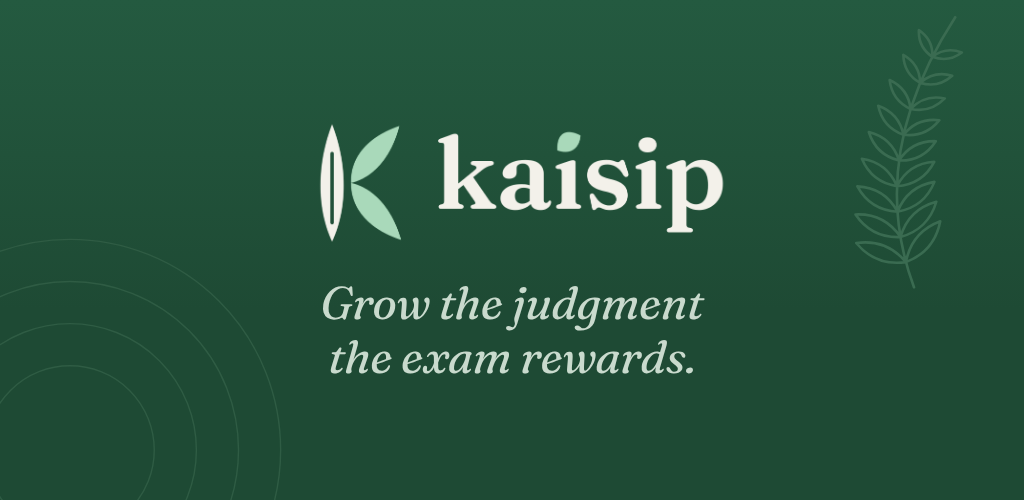
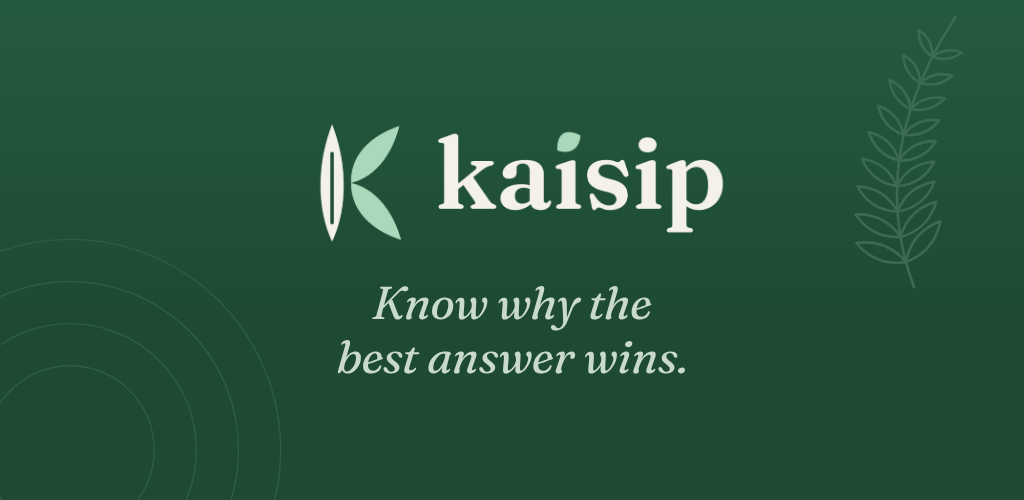
Brand line: "Know why the best answer wins." after the trademark clearance check (#219)
The owner's clearance check (TRADEMARK_CLEARANCE.md) found the new line and
the name KaiSip clear in the Philippines, WIPO, TMview and the US. "Deep
roots" is crowded in education marks, and "Grow Deep Roots" is a live US
Class 41 mark, so the pillar and the store heading that used it are renamed.

- Store listing: new brand line in both descriptions, the guardrails, the
  graphics note and the A/B table; new Play short description (78/80);
  heading GROW DEEP ROOTS is now REMEMBER WHAT YOU LEARN.
- Feature graphic: new line, re-rendered PNG. Video brief: new tagline.
- Web About pillar and phone About pillar: "Know why the best answer wins".
  Web v12.50.1 and mobile 1.54.4 with What's New entries.
- "Think like an IS auditor." stays as the CISA welcome headline (owner
  decision, 22 Oct 2026).

Claude-Session: https://claude.ai/code/session_01KmT18sgcYyGBBTgMHyrfb8

Changed region(s): [[0.3125, 0.57, 0.6875, 0.66], [0.3125, 0.69, 0.6875, 0.75]]

diff --git a/index.html b/index.html
@@ -7259,7 +7259,7 @@ html { scroll-padding-bottom: calc(104px + var(--consent-h, 0px)); }
     <h2 class="vision-title" id="aboutVisionT">Think like an IS auditor.</h2>
     <p class="vision-line">CISA exam prep, taught the way the exam thinks.</p>
   </section>
-  <p class="about-version">KaiSip web <span class="bank-pill" id="versionPill">v12.50</span></p>
+  <p class="about-version">KaiSip web <span class="bank-pill" id="versionPill">v12.50.1</span></p>
   <section class="vision-body" aria-label="What KaiSip stands for">
     <!-- The provenance line (owner, 22 Oct 2026): the same words in the hero, the disclaimer and the FAQ. -->
     <p class="vision-desc">Original questions and notes, written with AI assistance and checked against ISACA’s published exam outline and standards.</p>
@@ -7270,7 +7270,7 @@ html { scroll-padding-bottom: calc(104px + var(--consent-h, 0px)); }
       </li>
       <li class="vision-pillar">
         <span class="vision-glyph" aria-hidden="true"><svg viewBox="0 0 24 24" width="24" height="24" focusable="false"><path d="M12 14.5 V7.5" fill="none" stroke="currentColor" stroke-width="1.75" stroke-linecap="round"/><path d="M12 9.8 C12.3 6.6 14.4 4.8 17.8 4.6 C17.6 7.9 15.6 9.7 12 9.8Z" class="pg-leaf" stroke="currentColor" stroke-width="1.5" stroke-linejoin="round"/><path d="M12 11.6 C11.6 8.9 9.8 7.5 6.6 7.4 C6.8 10.2 8.6 11.6 12 11.6Z" class="pg-leaf" stroke="currentColor" stroke-width="1.5" stroke-linejoin="round"/><path d="M7.5 14.5 H16.5 M12 14.5 V20.5 M12 17.2 L9.4 19.6 M12 17.2 L14.6 19.6" fill="none" stroke="currentColor" stroke-width="1.75" stroke-linecap="round"/></svg></span>
-        <span class="vision-pillar-text"><span class="vision-pillar-title">Grow deep roots.</span> Learn the principle behind every answer, not just the key.</span>
+        <span class="vision-pillar-text"><span class="vision-pillar-title">Know why the best answer wins.</span> Learn the principle behind every answer, not just the key.</span>
       </li>
       <li class="vision-pillar">
         <span class="vision-glyph" aria-hidden="true"><svg viewBox="0 0 24 24" width="24" height="24" focusable="false"><path d="M4.8 13.6 A7.4 7.4 0 0 1 16.6 6.6 M19.2 10.4 A7.4 7.4 0 0 1 7.4 17.4" fill="none" stroke="currentColor" stroke-width="1.75" stroke-linecap="round"/><path d="M16.6,6.6 C15.74,9.51 18.24,10.89 20.86,10.23 C21.1,7.54 19.34,5.29 16.6,6.6Z" class="pg-leaf" stroke="currentColor" stroke-width="1.4" stroke-linejoin="round"/><path d="M7.4,17.4 C8.26,14.49 5.76,13.11 3.14,13.77 C2.9,16.46 4.66,18.71 7.4,17.4Z" class="pg-leaf" stroke="currentColor" stroke-width="1.4" stroke-linejoin="round"/></svg></span>
@@ -7601,7 +7601,7 @@ const MOCK_TIER_LABEL = { analysis: 'Harder', application: 'Middle', foundationa
 // Single source of truth for the app version. The header pill renders this
 // value, and the LATEST entry in the What's New modal must match it. Bumping
 // the version here is the only place to change it.
-const APP_VERSION = 'v12.50';
+const APP_VERSION = 'v12.50.1';
 const FEEDBACK_EMAIL = 'certprep.support@gmail.com';
 
 // Feedback is delivered via a Google Form whose responses land in the
@@ -22917,6 +22917,13 @@ function toggleMockDetail(i) {
 const CHANGELOG = [
   {
     version: APP_VERSION,
+    title: 'A clearer promise on the About page',
+    items: [
+      { cat: 'improved', text: 'The About page now says plainly what KaiSip teaches you: know why the best answer wins.' },
+    ],
+  },
+  {
+    version: 'v12.50',
     title: 'A free set of questions from every topic',
     items: [
       { cat: 'new', text: 'The website now has a free set of practice questions from every study topic, plus the Mini mock. The full course, with full mock exams, is in the KaiSip Android beta.' },

diff --git a/mobile/src/components/brand.tsx b/mobile/src/components/brand.tsx
@@ -131,8 +131,8 @@ export function KaisipLockup({ tone = 'auto', height = 32, decorative = false }:
 
 // ── Pillar glyphs (welcome + Settings → About), 24-unit grid ───────────
 /**
- * One small drawing per brand pillar: See the path (compass leaf), Grow deep
- * roots, Grow with the seasons (two turning arcs), Stand tall (a tree).
+ * One small drawing per brand pillar: See the path (compass leaf), Know why
+ * the best answer wins (roots), Grow with the seasons (two turning arcs), Stand tall (a tree).
  * Decorative: the pillar's title next to it says the same thing.
  */
 export function PillarGlyph({ kind, size = 24, isDark }: { kind: PillarGlyphKind; size?: number; isDark: boolean }) {

diff --git a/mobile/src/content/brand.ts b/mobile/src/content/brand.ts
@@ -62,7 +62,7 @@ export const EXAM_TRADEMARK_LINE = 'Not affiliated with or endorsed by ISACA®. 
 
 export const PILLARS: readonly Pillar[] = [
   { glyph: 'path', title: 'See the path', body: 'Know what to study next, and why it matters.' },
-  { glyph: 'roots', title: 'Grow deep roots', body: 'Learn the principle behind every answer, not just the key.' },
+  { glyph: 'roots', title: 'Know why the best answer wins', body: 'Learn the principle behind every answer, not just the key.' },
   { glyph: 'seasons', title: 'Grow with the seasons', body: 'Your plan adjusts when your week or the frameworks change.' },
   { glyph: 'tall', title: 'Stand tall', body: 'Build the judgment your team and clients rely on.' },
 ];

diff --git a/mobile/src/__tests__/onboarding-fit.test.tsx b/mobile/src/__tests__/onboarding-fit.test.tsx
@@ -124,7 +124,7 @@ describe('the welcome screen: literal, names the exam, no metaphors', () => {
     expect(t).toContain('No account. Everything stays on your phone.');
     expect(t).toMatch(/Not affiliated with or endorsed by ISACA/);
     // The four metaphor rows and the old-app line are gone.
-    expect(t).not.toMatch(/Grow with the seasons|Grow deep roots|Stand tall|See the path|Moving from|Aurivan/);
+    expect(t).not.toMatch(/Grow with the seasons|Know why the best answer wins|Stand tall|See the path|Moving from|Aurivan/);
     expect(t).not.toContain('Master Modern Risk.');
   });
 

diff --git a/mobile/src/content/support/index.ts b/mobile/src/content/support/index.ts
@@ -42,6 +42,11 @@ export interface WhatsNewEntry {
 /** Newest first. The first entry must match app.json (a test checks it). */
 export const WHATS_NEW: readonly WhatsNewEntry[] = [
   {
+    version: '1.54.4',
+    date: '2026-11-05',
+    improved: ['The About screen now says plainly what KaiSip teaches you: know why the best answer wins.'],
+  },
+  {
     version: '1.54.3',
     date: '2026-11-01',
     fixed: ['A paused mock exam or practice set can now be resumed from Today even after you finish the day’s plan.'],

diff --git a/design-notes/brand-kaisip/store/feature-graphic.html b/design-notes/brand-kaisip/store/feature-graphic.html
@@ -28,7 +28,7 @@ body { position: relative; background: linear-gradient(180deg, #245A40 0%, #1E4A
 <svg class="frond" id="frond" viewBox="0 0 160 160"></svg>
 <div class="safe">
   <img class="lockup" src="../png/lockup_dark.png" alt="KaiSip">
-  <p class="line">Grow the judgment<br>the exam rewards.</p>
+  <p class="line">Know why the<br>best answer wins.</p>
 </div>
 <script>
 // The frond, drawn as in og/og-card.html: a curved stem with paired leaves.

diff --git a/docs/mobile/STORE_LISTING.md b/docs/mobile/STORE_LISTING.md
@@ -4,7 +4,7 @@
 
 Ready-to-paste copy for App Store Connect and Google Play Console.
 
-**Revised 5 Nov 2026 against mobile 1.54.3** (claim-by-claim check of the app code): the app's own names are used (Drills, Questions to revisit, Mistake journal, Eliminate two); widgets, reminders, study notes, principles, the exam guide, final review week, plant forms and badges are now listed; the brand line is **"Grow the judgment the exam rewards."** (growth-marketer, 5 Nov 2026), which replaces "Think like an IS auditor." because it stays true when other certifications ship (each has its own role lens). The screenshots predate mobile 1.50 to 1.53 and are re-shot in the closed-test build session.
+**Revised 5 Nov 2026 against mobile 1.54.3** (claim-by-claim check of the app code): the app's own names are used (Drills, Questions to revisit, Mistake journal, Eliminate two); widgets, reminders, study notes, principles, the exam guide, final review week, plant forms and badges are now listed; the brand line is **"Know why the best answer wins."** (owner decision after a trademark clearance check, 5 Nov 2026; see `TRADEMARK_CLEARANCE.md`). It replaces "Grow the judgment the exam rewards." (same day) and "Think like an IS auditor.", and it stays true when other certifications ship, because every one is a "choose the best answer" exam. The "GROW DEEP ROOTS" heading is now "REMEMBER WHAT YOU LEARN": "Grow Deep Roots" is a live US education trademark. The screenshots predate mobile 1.50 to 1.53 and are re-shot in the closed-test build session.
 Voice: Grove, warm, calm and credible, like a senior colleague who already passed.
 Brand source: `mobile/src/content/brand.ts`. Compliance source: `docs/mobile/ARCHITECTURE.md` §6.
 
@@ -15,7 +15,8 @@ Brand source: `mobile/src/content/brand.ts`. Compliance source: `docs/mobile/ARC
 - Only CISA is available. Never name other certifications or imply they are available now. If a field needs to say more are planned, use only the owner's line: "Starting with CISA. More certifications later." (as in the app's About).
 - No hype words ("ultimate", "guaranteed", "best", "#1").
 - Use the app's own names for features (Drills, Questions to revisit, Mistake journal, Eliminate two). Recheck the copy against the app before each release; features are renamed.
-- Keep the brand line certification-neutral ("Grow the judgment the exam rewards."). A role line such as "Think like an IS auditor." fits CISA only.
+- Keep the brand line certification-neutral ("Know why the best answer wins."). A role line such as "Think like an IS auditor." fits CISA only. "Best" here is the exam's own instruction, not a claim about the app.
+- Never use "Small sessions. Deep roots." or "Grow deep roots" in any copy or metadata ("deep roots" is crowded in education trademarks; `TRADEMARK_CLEARANCE.md`). The backup line is "Every answer teaches the why."
 
 Character counts below are exact for the short fields (® counts as 1). Long fields are approximate. Check them in the console's counter before you submit.
 
@@ -53,10 +54,10 @@ auditor,cybersecurity,governance,risk,controls,compliance,quiz,certification,stu
 - "isaca" is left out on purpose. Guideline 2.3.7 warns against packing keywords with third-party trademarks. CISA already appears descriptively in the subtitle.
 - If you need room, drop `infosec` and use `itgc` (97/100).
 
-### Description (4000): about 2,822/4000
+### Description (4000): about 2,825/4000
 
 ```
-Grow the judgment the exam rewards.
+Know why the best answer wins.
 
 KaiSip helps IT auditors, security and risk professionals prepare for the CISA® exam in short, calm sessions that fit around work. Every answer teaches the principle behind it, so you learn to choose the best answer, not just one that sounds right. Starting with CISA. More certifications later.
 
@@ -73,7 +74,7 @@ SEE THE PATH
 • An estimated readiness range, so you can see where your points are
 • An exam-date countdown, a final review week and a calm exam-day moment
 
-GROW DEEP ROOTS
+REMEMBER WHAT YOU LEARN
 • Questions to revisit come back before they fade
 • A mistake journal where you tag the slip behind each miss, then get the drill for your most common one
 • Study notes for every topic, short lessons and key terms
@@ -143,15 +144,15 @@ KaiSip: Cyber & IT Audit Prep
 
 Chosen 29 Oct 2026 (owner: "IT Audit" alone is too narrow as KaiSip adds certifications; growth-marketer and app-store-compliance-reviewer agree). "Cyber" is accurate for a CISA-only app because Protection of Information Assets is cybersecurity content; "IT audit" is an exact search phrase KaiSip can win. Conditions: keep CISA® in the short description and the owner's line near the top of the full description until a second certification is live; never add "Certified" or "Cybersecurity Cert" to the title (too close to ISC2's "Certified in Cybersecurity"); check the length of any translated title (29/30 leaves no room); use the same name on the App Store.
 
-### Short description (80): 75/80
+### Short description (80): 78/80
 
 ```
-Calm IT audit and cybersecurity practice for the CISA® exam. Works offline.
+Know why the best answer wins. CISA® exam prep for IT audit and cybersecurity.
 ```
 
-It carries "cybersecurity" (Play does not reliably match "cyber" to it) and the exam the title leaves out. Previous text (22 Oct): "Practice for the CISA® exam: teaching tips, daily plan and spaced review." When ISC2 CC ships in the Play build, switch to "Calm cybersecurity and IT audit practice for the CISA® and ISC2® CC® exams." (75) and update the guardrail, the trademark notice and "all 5 CISA domains" in the same change; have app-store-compliance-reviewer confirm the first listing that names ISC2.
+It opens with the brand line (5 Nov 2026), then carries "CISA® exam" (the high-intent search, used only to name the exam, and never first), "IT audit" and "cybersecurity" (Play does not reliably match "cyber" to it) and the exam the title leaves out. "Works offline" moved to the full description. Previous text (29 Oct to 5 Nov): "Calm IT audit and cybersecurity practice for the CISA® exam. Works offline." Before that (22 Oct): "Practice for the CISA® exam: teaching tips, daily plan and spaced review." When ISC2 CC ships in the Play build, switch to "Calm cybersecurity and IT audit practice for the CISA® and ISC2® CC® exams." (75) and update the guardrail, the trademark notice and "all 5 CISA domains" in the same change; have app-store-compliance-reviewer confirm the first listing that names ISC2.
 
-### Full description (4000): 2,829/4000
+### Full description (4000): 2,832/4000
 
 Its own text for Play (22 Oct 2026, revised 5 Nov 2026). It differs from the App Store text in three places: the beta line "free to use during the beta" (the same words as the beta invitation; never "free app", "completely free" or "free forever", because paid plans may come), home-screen widgets (Android only; the iPhone app has none), and the question-bank line (App Store only). Both descriptions carry the owner's line "Starting with CISA. More certifications later." and the same three drills (Snare Spotter, Signpost, Call It First; the rest open after 50 answers, `todaysDrill.ts`). Play indexes the full description for search, so these phrases already appear naturally: "CISA® exam", "IT auditors", "practice questions", "mock exams", "offline". Do not add keyword lists. Play's metadata policy rejects them.
 
@@ -160,7 +161,7 @@ Its own text for Play (22 Oct 2026, revised 5 Nov 2026). It differs from the App
 When the beta ends, change the beta line (the owner decides the wording then).
 
 ```
-Grow the judgment the exam rewards.
+Know why the best answer wins.
 
 KaiSip helps IT auditors, security and risk professionals prepare for the CISA® exam in short, calm sessions that fit around work. Every answer teaches the principle behind it, so you learn to choose the best answer, not just one that sounds right. Starting with CISA. More certifications later.
 
@@ -179,7 +180,7 @@ SEE THE PATH
 • An estimated readiness range, so you can see where your points are
 • An exam-date countdown, a final review week and a calm exam-day moment
 
-GROW DEEP ROOTS
+REMEMBER WHAT YOU LEARN
 • Questions to revisit come back before they fade
 • A mistake journal where you tag the slip behind each miss, then get the drill for your most common one
 • Study notes for every topic, short lessons and key terms
@@ -219,7 +220,7 @@ CISA® and ISACA® are registered trademarks of ISACA. KaiSip is not affiliated 
 
 Made from `design-notes/brand-kaisip/store/` (re-render with `node design-notes/brand-kaisip/store/render.mjs`):
 - **App icon:** `play-icon-512.png`, 512×512, 32-bit PNG with alpha, under 1 MB.
-- **Feature graphic:** `feature-graphic-1024x500.png`, 1024×500, 24-bit PNG with no alpha. The lockup and "Grow the judgment the exam rewards." on the Grove forest green (5 Nov 2026; was "Think like an IS auditor."). No CISA or ISACA text.
+- **Feature graphic:** `feature-graphic-1024x500.png`, 1024×500, 24-bit PNG with no alpha. The lockup and "Know why the best answer wins." on the Grove forest green (5 Nov 2026; earlier "Grow the judgment the exam rewards." and "Think like an IS auditor."). No CISA or ISACA text.
 - **Phone screenshots:** the six in `screenshots/` (section 3), 1080×1920, 24-bit PNG. **Stale:** taken before mobile 1.50 to 1.53 (4 tabs, Drills inside Practice, the new answer plate). Re-shoot before the closed test.
 
 ### Category
@@ -319,8 +320,8 @@ Apple Product Page Optimization can test screenshots, icon and preview video, bu
 |---|---|---|---|
 | iOS subtitle (change with a version update) | Practice for the CISA® exam (27) | CISA® exam practice, offline (28) | Same as above, measured as conversion before and after |
 | Name (later, only if data supports it) | KaiSip: Cyber & IT Audit Prep (29) | (none planned) | Title chosen 29 Oct 2026 for the multi-certification roadmap; revisit only if store data shows a problem |
-| Screenshot 1 caption | Know what to study next | Grow the judgment the exam rewards. | A concrete benefit first beats the brand line for cold traffic |
-| Feature graphic line | Grow the judgment the exam rewards. (35) | Learn the why behind every answer. (34) | A plain feature promise may convert cold traffic better than a positioning line |
+| Screenshot 1 caption | Know what to study next | Know why the best answer wins. | A concrete benefit first beats the brand line for cold traffic |
+| Feature graphic line | Know why the best answer wins. (30) | Every answer teaches the why. (29) | A plain feature promise may convert cold traffic better than a positioning line |
 
 Success metric: store listing conversion rate (visitors to installs), read at 90% confidence and at least 7 days per test.
 

diff --git a/TRADEMARK_CLEARANCE.md b/TRADEMARK_CLEARANCE.md
@@ -1,0 +1,68 @@
+# KaiSip trademark clearance results (5 Nov 2026)
+
+Read this whole file before you change anything. It records a trademark clearance check for the app name and slogan, and the brand decisions that follow from it.
+
+This was a read-only clearance check, not legal advice. Nothing was filed or registered.
+
+## 1. Context
+
+- App name: **KaiSip** (mobile and web study app for IT audit and security exams: CISA, CRISC, CC, AAIA).
+- Nice classes that matter: **Class 9** (downloadable apps) and **Class 41** (education, exam prep).
+- Markets in priority order: Philippines, then international (Madrid), then US.
+- Databases searched: WIPO Global Brand Database, IPOPHL (WIPO Publish), TMview. The US (USPTO) was checked earlier.
+
+## 2. Decisions
+
+| Item | Decision |
+|---|---|
+| App name | **KaiSip**. Keep it. Looks clear. |
+| Main slogan | **"Know why the best answer wins."** |
+| Backup slogan | **"Every answer teaches the why."** |
+| Dropped | **"Small sessions. Deep roots."** Do not use it in any UI, store listing, marketing copy or metadata. |
+
+## 3. Results summary
+
+| Search term | Database | Matches | Live match in Class 9 or 41? |
+|---|---|---|---|
+| KAISIP (exact) | WIPO, all countries | 0 | No |
+| KAISIP (similar spelling), PH only | WIPO | 38, none close in 9/41 | No. Only dead PH marks: KAISI (30/32), KAISIN (12), C.A. CAISIP (30) |
+| KAISIP (similar spelling), Class 9/41 | WIPO and TMview | 22 | Nothing identical. Nearest live: Kaisig (Germany, 9 and 41), WaiSIP (Korea, 9), KAISIN. (Switzerland and Madrid, 9), KAISI (US, 9) |
+| KAI SIP, KAISEP, KAYSIP | WIPO, IPOPHL, TMview | 0, except 1 in TMview | Only KAISEPOCH (US, 9), a different word |
+| KNOW WHY THE BEST ANSWER WINS | WIPO, IPOPHL, TMview (incl. PH) | 0 | No |
+| BEST ANSWER WINS | WIPO, IPOPHL | 0 | No |
+| BEST ANSWER WINS | TMview | 1 | No. @BESTANSWERWINS (US, Class 35, dead) |
+| BEST ANSWER | IPOPHL, TMview PH | 0 | No |
+| BEST ANSWER, Class 9/41 | TMview | 4 | Yes: BEST ANSWERS logo (UK, Best Answers Education Ltd, Class 41, registered Nov 2024). DIMTON GIVE YOU BEST ANSWER! (China, 9) |
+| EVERY ANSWER TEACHES THE WHY | WIPO, IPOPHL, TMview (incl. PH) | 0 | No |
+| SMALL SESSIONS DEEP ROOTS | WIPO, IPOPHL, TMview | 0 | No |
+| DEEP ROOTS | IPOPHL, TMview PH | 0 | No |
+| DEEP ROOTS, Class 9/41 | TMview and WIPO | 34+ | Yes, many: GROW DEEP ROOTS (US, 41), DEEP ROOTS. BIG IDEAS. BRIGHT FUTURES. (US, 9 and 41), DEEPROOTS (US and China), DEEP ROOTS (India, 41), DEEP COM ROOTS (EU, 9 and 41), DEEP ROOTS (Canada, official mark, all classes) |
+
+## 4. Verdicts
+
+- **KaiSip: Looks clear.** No identical or sound-alike marks anywhere searched.
+- **"Know why the best answer wins": Looks clear.** "Best answer" is a common exam-prep phrase, so protection over those two words alone is weak. A UK education company owns a BEST ANSWERS logo. Low risk for the full sentence.
+- **"Every answer teaches the why": Looks clear.** Zero hits anywhere.
+- **"Small sessions. Deep roots.": Possible conflict.** "Deep roots" is crowded in Class 41 education overseas.
+
+## 5. Task for Claude Code
+
+Apply the slogan decision in the codebase. Copy changes only.
+
+1. Follow the repo's own `CLAUDE.md` (branching, version bump, What's New, linting, hooks).
+2. Work on a new branch: `chore/slogan-update`. Never commit to `main`. Open a pull request at the end. Do not merge it.
+3. Search the whole repo (HTML, JS, JSON, Markdown, store listing files, manifest, meta tags, Open Graph tags, Android strings) for:
+   - "Small sessions" and "Deep roots" (any case). Remove or replace with the main slogan.
+   - Any existing tagline or slogan. List each place it appears before changing it.
+4. Set the main tagline to exactly: `Know why the best answer wins.`
+5. Do not touch the quiz engine, scoring, readiness maths, question data or storage keys.
+6. Copy rules: short, plain sentences. No em dashes or en dashes anywhere, including commit messages and the PR.
+7. In the PR description, list every file and line where a slogan was changed or removed.
+8. If you find the backup slogan "Every answer teaches the why." used anywhere, leave it and mention it in the PR.
+
+## 6. Not yet checked (do by hand)
+
+- Logos and design marks (only words were searched).
+- Unregistered use: Google Play and App Store names, DTI business names, SEC company names.
+- Filings from the last few weeks may not be in the databases yet.
+- A Philippine IP lawyer or agent should confirm before any filing.

diff --git a/docs/mobile/DESIGN_SYSTEM.md b/docs/mobile/DESIGN_SYSTEM.md
@@ -808,7 +808,7 @@ The app is called **KaiSip** (written exactly "KaiSip" in running text; the lowe
 
 **In the app.** `KaisipMark` and `KaisipLockup` in `components/brand.tsx` are the only brand drawings (react-native-svg; paths copied from the masters, the wordmark already outlined, so no font has to load). Colours are the `kaisip` tones in `theme/tokens.ts`: on paper the upright leaf is forest `#1E4A34`, the pair and the dot of the i are `accent` `#2B6E4A`, the wordmark is `ink`; in dark the leaf and wordmark are paper `#F3F1EA` and the pair is `sap` `#A9D9BA` (contrast 8.91 / 5.41 / 14.37 on paper, 16.19 / 11.6 / 16.19 on the dark bg; 3:1 is needed for a mark, 4.5:1 for text). `tone="auto"` (default) follows the theme; `light` / `dark` force one (the share cards use `dark`). Spoken "KaiSip" as one image; pass `decorative` when a parent already says it. Used on the welcome title page (34, auto tone, decorative), Settings → About (28) and the share cards (30, badge card 22). *(Today's header lockup is superseded by §21.4 (1.51).)*
 
-**Vision (Set A "Rings").** *Mobile 1.39 (owner decision, 22 Oct 2026): Settings → About leads with the welcome's words, "Think like an IS auditor." (`hero`) and the welcome's sub (`quote`; since premium round 2 "A field guide to your CISA® exam study.", §21.7), then the pillars, then two `meta` lines: "Starting with CISA. More certifications later." and the one provenance line, "Original questions and notes, written with AI assistance and checked against ISACA’s published exam outline and standards." (`PROVENANCE_LINE`, the same words in the ISACA FAQ answer). The old tagline and vision line are retired; the Certification picker lists only CISA.* Copy lives only in `content/brand.ts`. Pillars: See the path / Grow deep roots / Grow with the seasons / Stand tall, in Settings → About under the caption "The KaiSip way" (the web's About uses the same caption); the welcome screen states the same lead plainly. The pillars are plain rows on the paper in both places (`PillarList` `rows`, 16 apart): they are not choices, so they are never raised cards.
+**Vision (Set A "Rings").** *Mobile 1.39 (owner decision, 22 Oct 2026): Settings → About leads with the welcome's words, "Think like an IS auditor." (`hero`) and the welcome's sub (`quote`; since premium round 2 "A field guide to your CISA® exam study.", §21.7), then the pillars, then two `meta` lines: "Starting with CISA. More certifications later." and the one provenance line, "Original questions and notes, written with AI assistance and checked against ISACA’s published exam outline and standards." (`PROVENANCE_LINE`, the same words in the ISACA FAQ answer). The old tagline and vision line are retired; the Certification picker lists only CISA.* Copy lives only in `content/brand.ts`. Pillars: See the path / Know why the best answer wins (was "Grow deep roots" until mobile 1.54.4, a live US education trademark) / Grow with the seasons / Stand tall, in Settings → About under the caption "The KaiSip way" (the web's About uses the same caption); the welcome screen states the same lead plainly. The pillars are plain rows on the paper in both places (`PillarList` `rows`, 16 apart): they are not choices, so they are never raised cards.
 
 **Store assets** (`mobile/assets`, same file names and sizes as before the rename):
 

diff --git a/marketing/kit/VIDEO_BRIEF.md b/marketing/kit/VIDEO_BRIEF.md
@@ -10,7 +10,7 @@ You are my creative director, scriptwriter and video producer. I'm launching a *
 
 ## About the product
 - **KaiSip** is an exam-prep app for IT audit, security and risk certifications, **starting with CISA®** (Certified Information Systems Auditor). It is on the web at **kaisip.com** and on **Android (Google Play, in beta)**, with **iPhone coming later**.
-- **Tagline (use as the main line):** "Grow the judgment the exam rewards. CISA® exam prep, taught the way the exam thinks." Any video that shows "CISA" on screen carries the trademark notice in its end card.
+- **Tagline (use as the main line):** "Know why the best answer wins. CISA® exam prep, taught the way the exam thinks." Any video that shows "CISA" on screen carries the trademark notice in its end card.
 - **Future certifications:** you may say "Starting with CISA. More certifications later." Never list future certifications or give dates.
 - **Audience:**
   - IT auditors, accountants moving into IT audit, risk, compliance and security people preparing for CISA, worldwide.

diff --git a/CHANGELOG.md b/CHANGELOG.md
@@ -4,6 +4,11 @@ All notable user-facing changes to this app. The in-app **What's New** modal mir
 
 For internal/technical history, see git log and PR descriptions.
 
+## [v12.50.1] A clearer promise on the About page
+
+### Improved
+- The About page now says plainly what KaiSip teaches you: know why the best answer wins.
+
 ## [v12.50] — A free set of questions from every topic
 
 ### New
